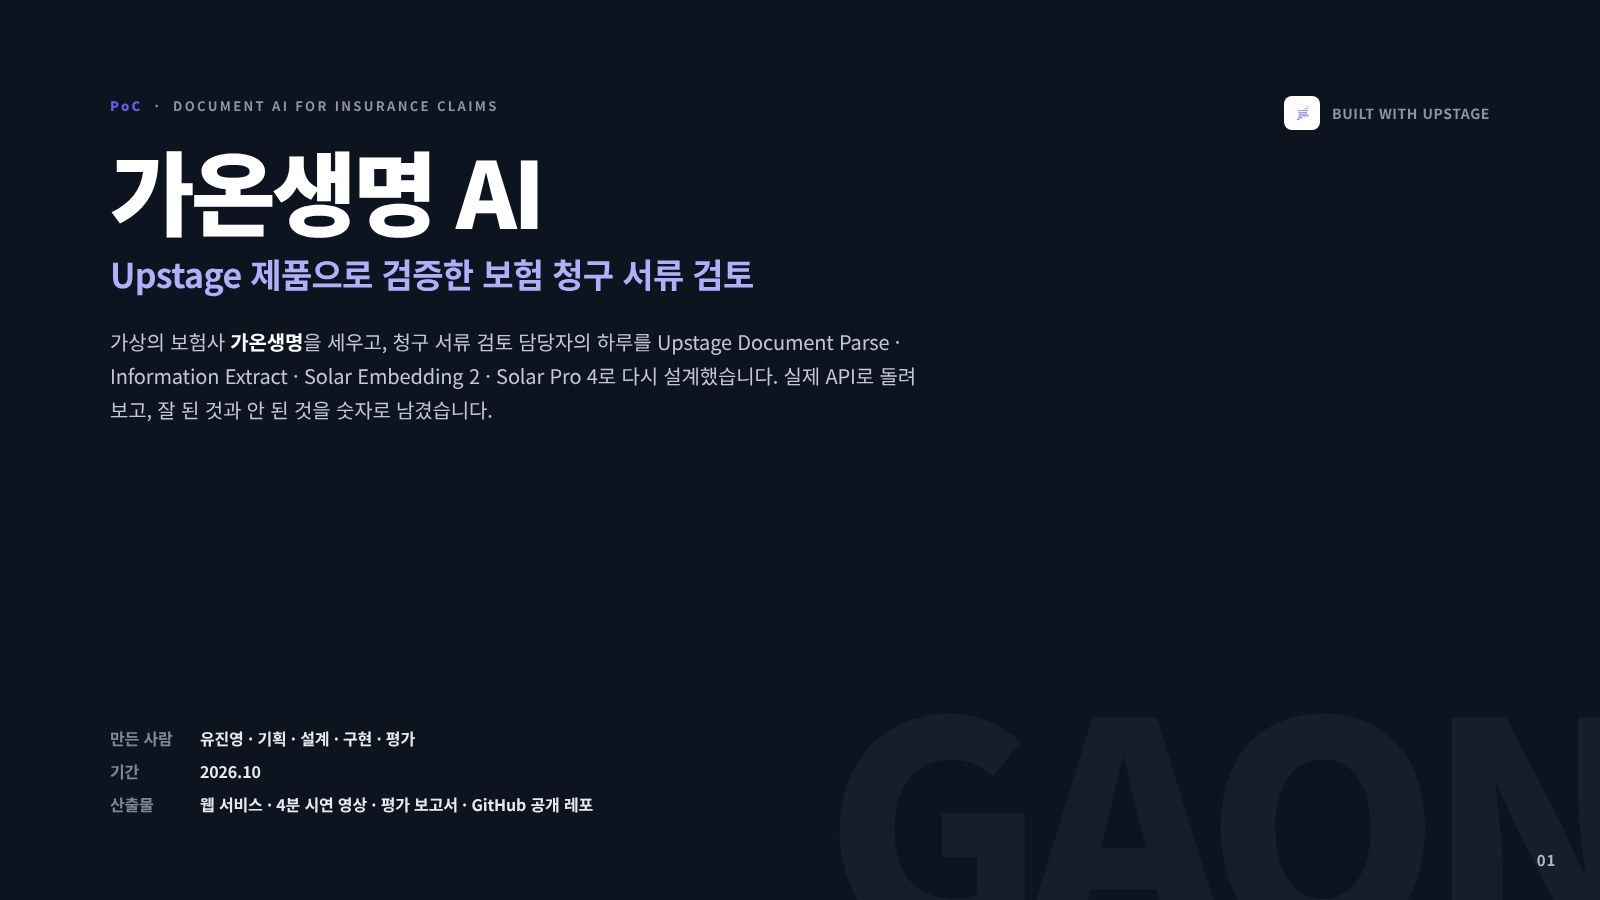
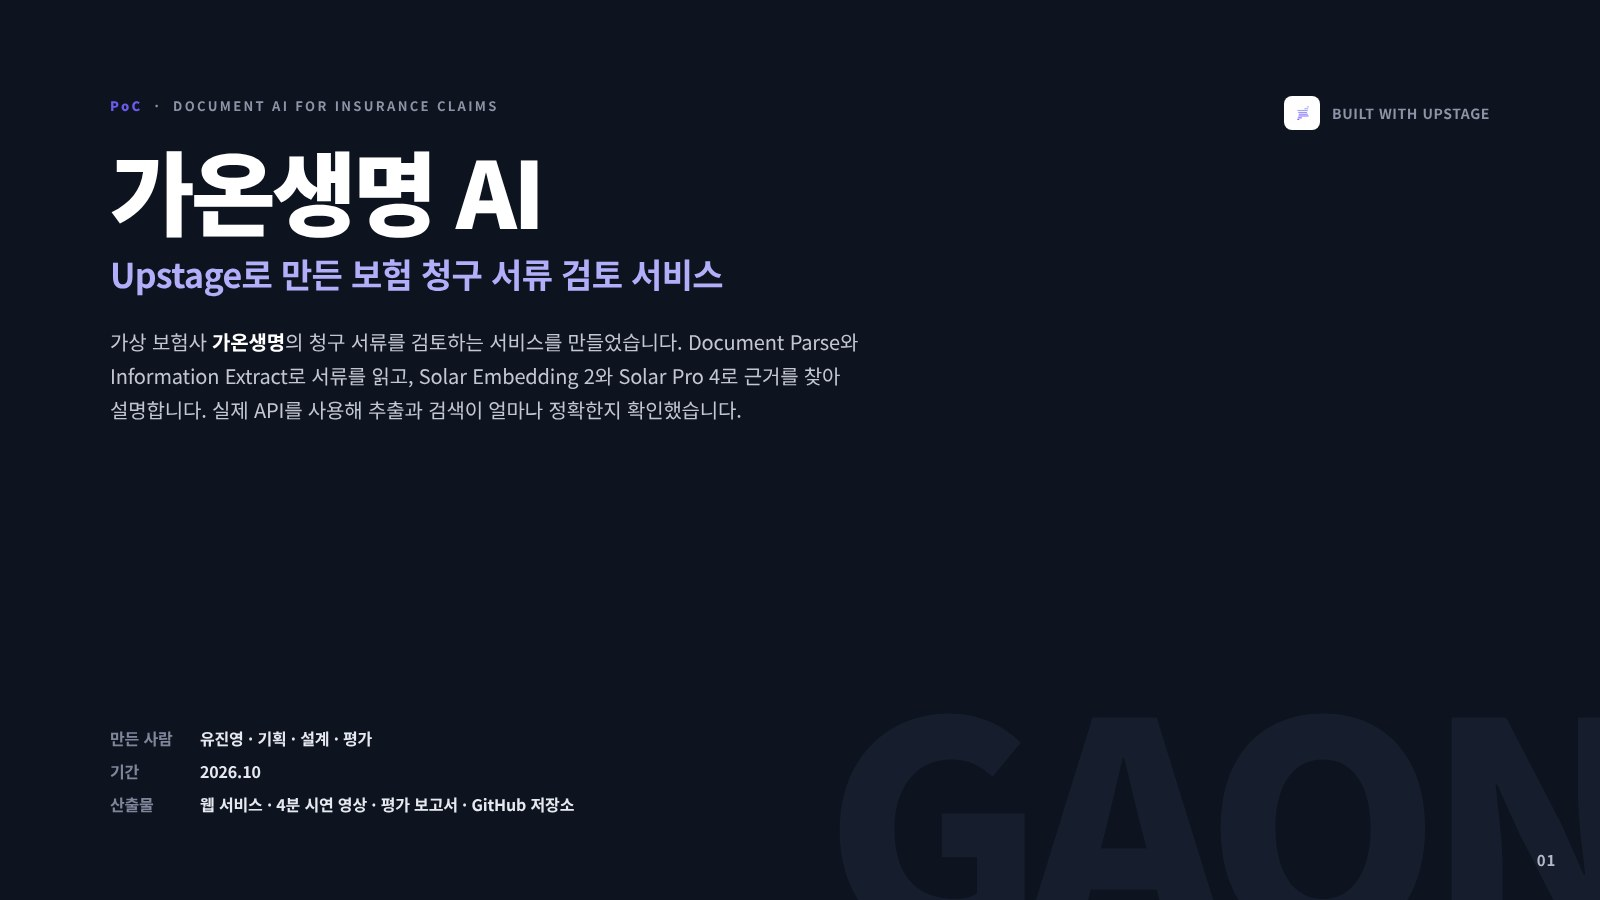
docs: README 기술 스택 표기와 표지 이미지 갱신
Claude-Session: https://claude.ai/code/session_01VmaFDEVoBhxJ5V7EPZ5ut4

diff --git a/README.md b/README.md
@@ -33,7 +33,7 @@
 | **만든 사람** | 유진영 (개인 프로젝트) |
 | **담당** | 문제 정의 · 시장 조사 · 요구사항 · 데이터 · 화면 설계 · 구현 · 평가 · 시연 |
 | **기간** | 2026.10 |
-| **개발 도구** | GPT-Codex, Claude |
+| **기술 스택** | Python · FastAPI · LangGraph · Qdrant · Next.js · TypeScript · Docker · Render · Vercel |
 
 - **가상의 생명보험사 가온생명**이 Upstage Document AI를 도입한다고 가정하고 만든 PoC입니다.
 - 결정 기록은 [`docs/decisions.md`](docs/decisions.md), 작업 기록은 [`docs/WORKLOG.md`](docs/WORKLOG.md)에 남겼습니다.
@@ -166,7 +166,7 @@ flowchart LR
 | 분류 | 기술 |
 | --- | --- |
 | **Frontend** | Next.js, React, TypeScript, Tailwind CSS, Vercel |
-| **Backend** | FastAPI, SQLModel · SQLite, Docker, Render |
+| **Backend** | Python 3.13, FastAPI, SQLModel · SQLite, Docker, Render |
 | **Document AI** | Upstage Document Parse, Information Extract |
 | **LLM · 검색** | Upstage Solar Pro 4, Solar Embedding 2, LangGraph, Qdrant |
 | **테스트** | pytest, Ruff, Playwright |
